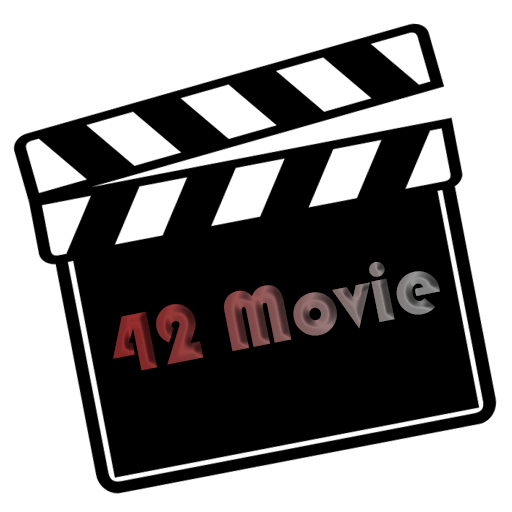
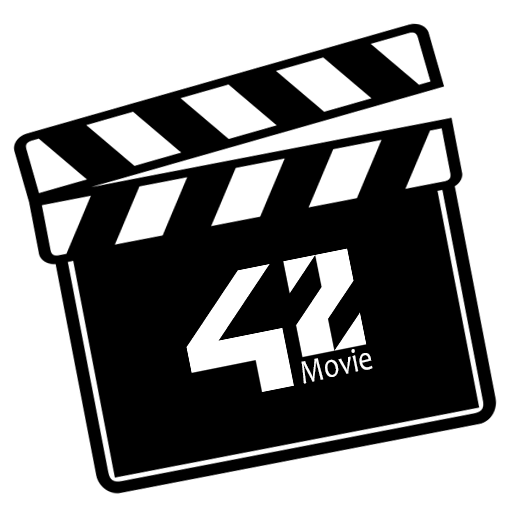
Change 42Movie pic

Changed region(s): [[0.2188, 0.4688, 0.875, 0.7812]]

diff --git a/src/Style/MakeStyles.js b/src/Style/MakeStyles.js
@@ -33,6 +33,8 @@ export const cardStyles = makeStyles({
   root: {
     margin: '0 auto',
     maxWidth: 280,
+    // color: "white",
+    // backgroundColor: Theme.primaryColor,
   },
   media: {
     height: 280,
